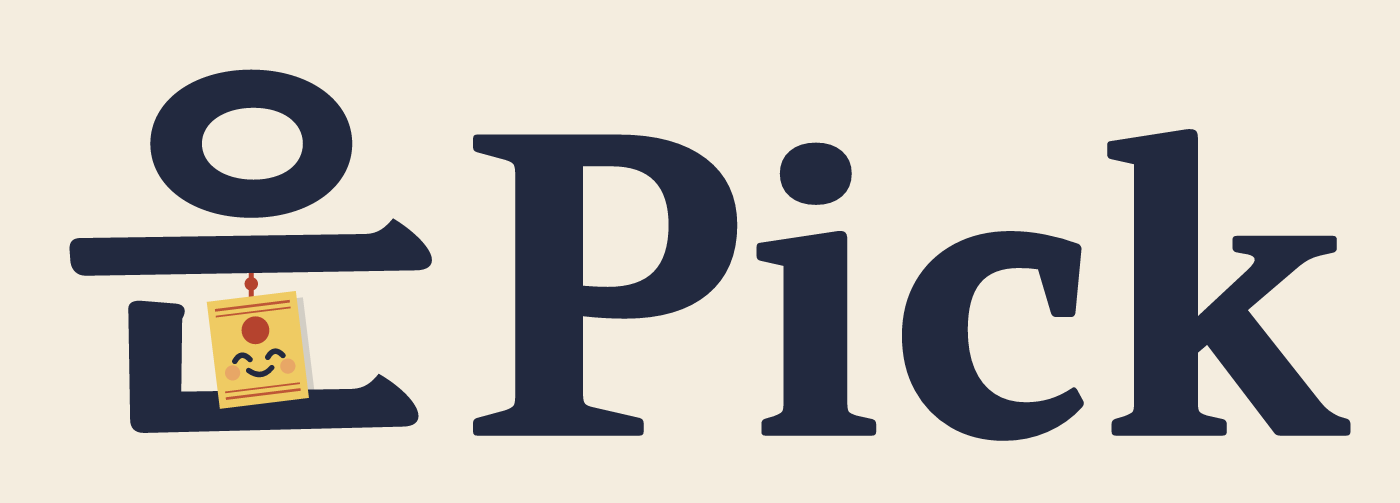
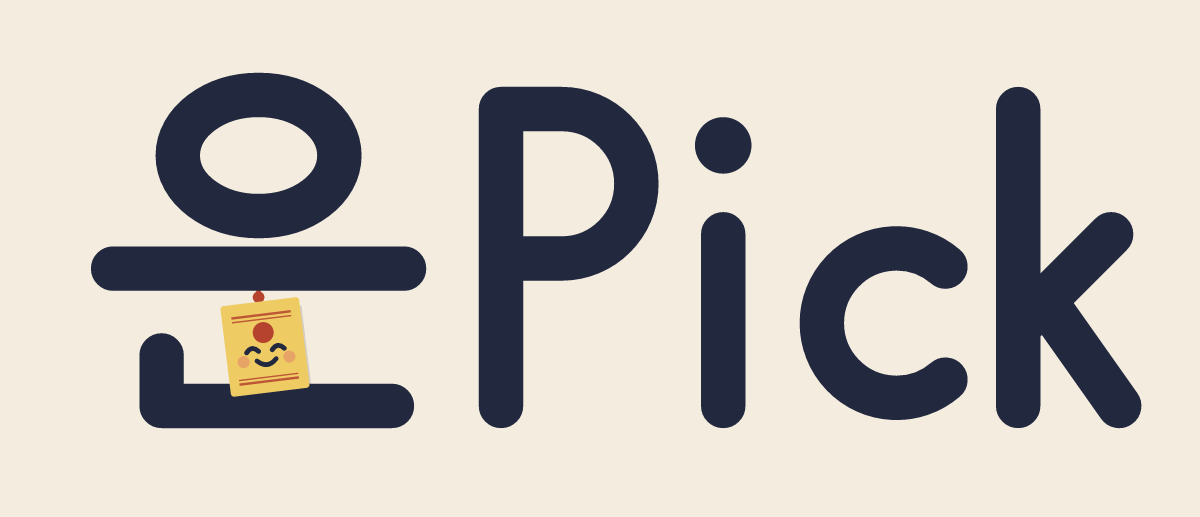
로고: 이전 단선 레터링 '운Pick'으로 되돌리고 ㅜ 자리 부적만 고품질로
- 618ec1e의 명조 '운'은 되돌리고 75de109 단선 레터링 복원
- ㅜ 기둥 부적만 개선: 붉은 매듭 끈 · 위아래 붉은 두 줄 · 도장 · 웃는 눈 · 볼 · 접힌 그림자
- 아이콘·스플래시·파비콘·워드마크 재생성, brandPaths.json 제거

Changed region(s): [[0.0308, 0.1193, 0.9867, 0.8946]]

diff --git a/scripts/render-icons.js b/scripts/render-icons.js
@@ -1,37 +1,43 @@
 /**
- * 운Pick 앱 아이콘 · 적응형 아이콘 · 스플래시 · 파비콘 · 워드마크 생성
+ * 운Pick 앱 아이콘 · 적응형 아이콘 · 스플래시 · 파비콘 생성 (assets/)
  * 사용: npm run icons
- * 로고 패스는 src/components/brandPaths.json 하나를 앱(BrandMark.tsx)과 함께 쓴다.
- * '운'은 직접 그린 명조 레터링, ㅜ 기둥 자리에는 매듭 끈에 매달린 부적(웃는 눈 · 붉은 도장 · 위아래 붉은 두 줄).
+ * 로고는 글꼴이 아니라 직접 그린 단선 레터링(획 두께 11, 둥근 끝). src/components/BrandMark.tsx 와 같은 패스.
+ * 시그니처: '운'의 ㅜ 기둥 자리에 붉은 매듭 끈으로 매달린 노란 부적(위아래 붉은 두 줄 · 도장 · 웃는 눈 · 볼 · 그림자).
  */
 const { Resvg } = require('@resvg/resvg-js');
 const fs = require('fs');
 const path = require('path');
-const B = require('../src/components/brandPaths.json');
-const FONTS = [path.resolve(__dirname, '../node_modules/@expo-google-fonts/hahmlet/700Bold/Hahmlet_700Bold.ttf')];
-const NAVY = '#22293F', CREAM = '#F4EDDF', RED = '#B5432E', MUTE = '#857C6E';
-const T = B.talisman;
-/** 운 + 부적 (0..100) */
+const NM = path.resolve(__dirname, '../node_modules/@expo-google-fonts/hahmlet');
+const FONTS = [NM + '/700Bold/Hahmlet_700Bold.ttf'];
+const NAVY = '#22293F', CREAM = '#F4EDDF', RED = '#B5432E', MUTE = '#857C6E', YEL = '#EDC861', YEL2 = '#D9AE3F';
+const st = c => `fill="none" stroke="${c}" stroke-width="11" stroke-linecap="round" stroke-linejoin="round"`;
+/** 운 (0..100) */
 const un = (c = NAVY) => `
-  <path d="${B.un.o}" fill="${c}" fill-rule="evenodd"/>
-  <path d="${B.un.nieun}" fill="${c}"/>
-  <path d="M50 53 V60.4" stroke="${RED}" stroke-width="1.1" stroke-linecap="round"/><circle cx="50" cy="57.2" r="1.5" fill="${RED}"/>
-  <path d="${T.shadow}" fill="${NAVY}" opacity="0.16"/>
-  <path d="${T.paper}" fill="#EFCB63"/>
-  <path d="${T.rules}" fill="${RED}" opacity="0.85"/>
-  <circle cx="${T.seal[0]}" cy="${T.seal[1]}" r="3.1" fill="${RED}"/>
-  <path d="${T.eyes}" fill="none" stroke="${NAVY}" stroke-width="1.25" stroke-linecap="round"/>
-  <path d="${T.smile}" fill="none" stroke="${NAVY}" stroke-width="1.2" stroke-linecap="round"/>
-  <circle cx="${T.chL[0]}" cy="${T.chL[1]}" r="1.7" fill="#E07C6A" opacity="0.45"/><circle cx="${T.chR[0]}" cy="${T.chR[1]}" r="1.7" fill="#E07C6A" opacity="0.45"/>
-  <path d="${B.un.bar}" fill="${c}"/>`;
-const word = c => `${un(c)}<path d="${B.pick}" fill="${c}"/>`; // x 9.5..294.5
+  <ellipse cx="50" cy="24.5" rx="20" ry="15" ${st(c)}/>
+  <path d="M26 74 V86.5 H83" ${st(c)}/>
+  <path d="M50 54 V61.6" stroke="${RED}" stroke-width="1.1" stroke-linecap="round"/><circle cx="50" cy="59.6" r="1.45" fill="${RED}"/>
+  <path d="M 42.73 63.82 L 60.6 61.63 L 63.17 82.57 L 45.3 84.76 Z" fill="${NAVY}" opacity="0.16"/>
+  <path d="M 41.37 62.58 L 59.24 60.38 L 61.8 81.23 L 43.93 83.42 Z" fill="#EFCB63" stroke="#EFCB63" stroke-width="1.6" stroke-linejoin="round"/>
+  <path d="M 43.23 64.57 L 57.92 62.76 L 57.99 63.36 L 43.3 65.16 Z M 43.37 65.76 L 58.06 63.95 L 58.11 64.3 L 43.42 66.11 Z M 45.13 80.05 L 59.82 78.25 L 59.86 78.59 L 45.17 80.4 Z M 45.24 80.94 L 59.93 79.14 L 60.0 79.74 L 45.31 81.54 Z" fill="${RED}" opacity="0.85"/>
+  <circle cx="51.15" cy="68.33" r="2.6" fill="${RED}"/>
+  <path d="M 47.03 73.37 Q 48.3 71.4 50.01 73.0 M 53.38 72.59 Q 54.65 70.62 56.36 72.22" fill="none" stroke="${NAVY}" stroke-width="1.2" stroke-linecap="round"/>
+  <path d="M 49.59 75.37 Q 52.27 77.46 54.36 74.79" fill="none" stroke="${NAVY}" stroke-width="1.15" stroke-linecap="round"/>
+  <circle cx="46.3" cy="75.67" r="1.5" fill="#E07C6A" opacity="0.5"/><circle cx="57.62" cy="74.29" r="1.5" fill="#E07C6A" opacity="0.5"/>
+  <path d="M14 52.5 H86" ${st(c)}/>`;
+/** Pick (운 뒤 x=110부터) */
+const pick = (c = NAVY) => `
+  <path d="M0 86.5 V13 H15 A18.5 18.5 0 0 1 15 50 H0" ${st(c)}/>
+  <path d="M55 44 V86.5" ${st(c)}/><circle cx="55" cy="22" r="7" fill="${c}"/>
+  <path d="M110 52 A18.5 18.5 0 1 0 110 80" ${st(c)}/>
+  <path d="M128 13 V86.5 M128 67 L151 44 M135 61 L153 86.5" ${st(c)}/>`;
+const word = c => `<g>${un(c)}</g><g transform="translate(110 0)">${pick(c)}</g>`; // 폭 0..269
 const svg = (body, vb = '0 0 100 100') => `<svg xmlns="http://www.w3.org/2000/svg" viewBox="${vb}">${body}</svg>`;
 const png = (s, out, w) => fs.writeFileSync(out, new Resvg(s, { fitTo: { mode: 'width', value: w }, font: { fontFiles: FONTS, loadSystemFonts: false, defaultFontFamily: 'Hahmlet' } }).render().asPng());
 const out = process.argv[2] || path.resolve(__dirname, '../assets');
-png(svg(`<rect width="100" height="100" fill="${CREAM}"/><g transform="translate(50 50) scale(0.68) translate(-50 -50)">${un()}</g>`), `${out}/icon.png`, 1024);
-png(svg(`<g transform="translate(50 50) scale(0.5) translate(-50 -50)">${un()}</g>`), `${out}/adaptive-icon.png`, 1024);
-png(svg(`<g transform="translate(200 170) scale(0.92) translate(-152 -50)">${word(NAVY)}</g>
+png(svg(`<rect width="100" height="100" fill="${CREAM}"/><g transform="translate(50 50) scale(0.6) translate(-50 -50)">${un()}</g>`), `${out}/icon.png`, 1024);
+png(svg(`<g transform="translate(50 50) scale(0.44) translate(-50 -50)">${un()}</g>`), `${out}/adaptive-icon.png`, 1024);
+png(svg(`<g transform="translate(200 175) scale(0.62) translate(-134.5 -50)">${word(NAVY)}</g>
   <text x="200" y="250" font-family="Hahmlet" font-weight="700" font-size="16" fill="${MUTE}" text-anchor="middle">오늘의 운, 하나만 Pick!</text>`, '0 0 400 400'), `${out}/splash-icon.png`, 1200);
-png(svg(`<rect width="100" height="100" rx="18" fill="${CREAM}"/><g transform="translate(50 50) scale(0.78) translate(-50 -50)">${un()}</g>`), `${out}/favicon.png`, 196);
-png(svg(`<rect x="-6" y="-6" width="312" height="112" fill="${CREAM}"/>${word(NAVY)}`, '-6 -6 312 112'), path.resolve(__dirname, '../docs/wordmark.png'), 1400);
+png(svg(`<rect width="100" height="100" rx="18" fill="${CREAM}"/><g transform="translate(50 50) scale(0.68) translate(-50 -50)">${un()}</g>`), `${out}/favicon.png`, 196);
+png(svg(`<rect x="-14" y="-14" width="297" height="128" fill="${CREAM}"/>${word(NAVY)}`, '-14 -14 297 128'), path.resolve(__dirname, '../docs/wordmark.png'), 1200);
 console.log('ok');

diff --git a/src/components/BrandMark.tsx b/src/components/BrandMark.tsx
@@ -1,54 +1,59 @@
 import React from 'react';
-import Svg, { Circle, Path } from 'react-native-svg';
+import Svg, { Circle, Ellipse, G, Path } from 'react-native-svg';
 import { colors } from '../theme/colors';
-import B from './brandPaths.json';
 
 /** 브랜드 — 화면 문구와 공유 문구가 모두 여기서 가져간다 (docs/BRAND.md) */
 export const BRAND = { name: '운Pick', ko: '운픽', slogan: '오늘의 운, 하나만 Pick!', store: '운Pick - 오늘의 운, 하나만 Pick' };
 
 /**
- * 운Pick 로고 — 패스는 brandPaths.json(아이콘 생성 스크립트와 공유).
- * '운'은 직접 그린 명조 레터링, ㅜ 기둥 자리에 매듭 끈에 매달린 부적(웃는 눈 · 붉은 도장 · 위아래 붉은 두 줄).
- * 회전·변형 속성 없이 좌표로만 그려 웹·앱·공유 이미지에서 같은 모양이다.
+ * 운Pick 로고는 글꼴이 아니라 직접 그린 단선 레터링이다(획 두께 11 · 둥근 끝 · scripts/render-icons.js 와 같은 패스).
+ * 시그니처: '운'의 ㅜ 기둥 자리에 붉은 매듭 끈으로 매달린 노란 부적(위아래 붉은 두 줄 · 도장 · 웃는 눈 · 볼 · 그림자) — 오늘 뽑은(Pick) 행운.
  */
-const NAVY = '#22293F', RED = colors.seal, T = B.talisman;
+const STROKE = { fill: 'none', strokeWidth: 11, strokeLinecap: 'round', strokeLinejoin: 'round' } as const;
 
 function Un({ fg }: { fg: string }) {
   return (
     <>
-      <Path d={B.un.o} fill={fg} fillRule="evenodd" />
-      <Path d={B.un.nieun} fill={fg} />
-      <Path d="M50 53 V60.4" stroke={RED} strokeWidth={1.1} strokeLinecap="round" />
-      <Circle cx={50} cy={57.2} r={1.5} fill={RED} />
-      <Path d={T.shadow} fill={NAVY} opacity={0.16} />
-      <Path d={T.paper} fill="#EFCB63" />
-      <Path d={T.rules} fill={RED} opacity={0.85} />
-      <Circle cx={T.seal[0]} cy={T.seal[1]} r={3.1} fill={RED} />
-      <Path d={T.eyes} fill="none" stroke={NAVY} strokeWidth={1.25} strokeLinecap="round" />
-      <Path d={T.smile} fill="none" stroke={NAVY} strokeWidth={1.2} strokeLinecap="round" />
-      <Circle cx={T.chL[0]} cy={T.chL[1]} r={1.7} fill="#E07C6A" opacity={0.45} />
-      <Circle cx={T.chR[0]} cy={T.chR[1]} r={1.7} fill="#E07C6A" opacity={0.45} />
-      <Path d={B.un.bar} fill={fg} />
+      <Ellipse cx={50} cy={24.5} rx={20} ry={15} stroke={fg} {...STROKE} />
+      <Path d="M26 74 V86.5 H83" stroke={fg} {...STROKE} />
+      {/* ㅜ 기둥 자리의 부적 — 붉은 매듭 끈 · 접힌 그림자 · 위아래 붉은 두 줄 · 도장 · 웃는 눈. 회전은 좌표로 미리 계산 */}
+      <Path d="M50 54 V61.6" stroke={colors.seal} strokeWidth={1.1} strokeLinecap="round" />
+      <Circle cx={50} cy={59.6} r={1.45} fill={colors.seal} />
+      <Path d="M 42.73 63.82 L 60.6 61.63 L 63.17 82.57 L 45.3 84.76 Z" fill="#22293F" opacity={0.16} />
+      <Path d="M 41.37 62.58 L 59.24 60.38 L 61.8 81.23 L 43.93 83.42 Z" fill="#EFCB63" stroke="#EFCB63" strokeWidth={1.6} strokeLinejoin="round" />
+      <Path d="M 43.23 64.57 L 57.92 62.76 L 57.99 63.36 L 43.3 65.16 Z M 43.37 65.76 L 58.06 63.95 L 58.11 64.3 L 43.42 66.11 Z M 45.13 80.05 L 59.82 78.25 L 59.86 78.59 L 45.17 80.4 Z M 45.24 80.94 L 59.93 79.14 L 60.0 79.74 L 45.31 81.54 Z" fill={colors.seal} opacity={0.85} />
+      <Circle cx={51.15} cy={68.33} r={2.6} fill={colors.seal} />
+      <Path d="M 47.03 73.37 Q 48.3 71.4 50.01 73.0 M 53.38 72.59 Q 54.65 70.62 56.36 72.22" fill="none" stroke="#22293F" strokeWidth={1.2} strokeLinecap="round" />
+      <Path d="M 49.59 75.37 Q 52.27 77.46 54.36 74.79" fill="none" stroke="#22293F" strokeWidth={1.15} strokeLinecap="round" />
+      <Circle cx={46.3} cy={75.67} r={1.5} fill="#E07C6A" opacity={0.5} />
+      <Circle cx={57.62} cy={74.29} r={1.5} fill="#E07C6A" opacity={0.5} />
+      <Path d="M14 52.5 H86" stroke={fg} {...STROKE} />
     </>
   );
 }
 
-/** 마크: '운' 레터링 + 부적 (앱 아이콘과 같음). fg: 글자 색 — 밝은 바탕엔 먹남색, 어두운 바탕엔 한지색 */
+/** 마크: '운' 레터링 (앱 아이콘과 같음). fg: 획 색 — 밝은 바탕엔 먹남색, 어두운 바탕엔 한지색 */
 export function LogoMark({ size = 24, fg = colors.purple }: { size?: number; fg?: string }) {
   return (
-    <Svg width={size} height={size} viewBox="5 5 90 90" accessibilityLabel={BRAND.name}>
+    <Svg width={size} height={size} viewBox="2 2 96 96" accessibilityLabel={BRAND.name}>
       <Un fg={fg} />
     </Svg>
   );
 }
 
-/** 워드마크: 운Pick 하나 (첫 화면 · 헤더 · 공유 카드). size = 높이 */
+/** 워드마크: 운Pick 레터링 하나 (첫 화면 · 헤더 · 공유 카드). size = 높이 */
 export default function BrandMark({ light = false, size = 22 }: { light?: boolean; size?: number }) {
   const fg = light ? '#F4EDDF' : colors.purple;
   return (
-    <Svg width={(size * 292) / 88} height={size} viewBox="6 5 292 88" accessibilityLabel={BRAND.name}>
+    <Svg width={(size * 281) / 92} height={size} viewBox="-6 2 281 92" accessibilityLabel={BRAND.name}>
       <Un fg={fg} />
-      <Path d={B.pick} fill={fg} />
+      <G x={110}>
+        <Path d="M0 86.5 V13 H15 A18.5 18.5 0 0 1 15 50 H0" stroke={fg} {...STROKE} />
+        <Path d="M55 44 V86.5" stroke={fg} {...STROKE} />
+        <Circle cx={55} cy={22} r={7} fill={fg} />
+        <Path d="M110 52 A18.5 18.5 0 1 0 110 80" stroke={fg} {...STROKE} />
+        <Path d="M128 13 V86.5 M128 67 L151 44 M135 61 L153 86.5" stroke={fg} {...STROKE} />
+      </G>
     </Svg>
   );
 }

diff --git a/docs/BRAND.md b/docs/BRAND.md
@@ -22,19 +22,18 @@
 
 'PICK'은 고르는 동작을 강조할 때 대문자로, 브랜드명은 `운Pick`으로 써요. 카피에도 이모지는 쓰지 않아요.
 
-## 로고 (`docs/wordmark.png`)
+## 로고 — 직접 그린 레터링 + 부적 (`docs/wordmark.png`)
 | 요소 | 설명 |
 |---|---|
-| '운' | 직접 그린 **명조 레터링** — ㅇ은 좌우가 두껍고 위아래가 얇은 대비, ㅡ은 붓 들머리와 끝 맺음(살짝 올라가는 갈고리), ㄴ은 굵은 세로와 얇은 가로·끝 맺음 |
-| 'Pick' | Hahmlet Bold 윤곽선을 고정 패스로 변환해 89.5% 크기·같은 기준선으로 '운'과 굵기를 맞춤(폰트 파일에 의존하지 않음) |
-| 시그니처 **부적** | ㅜ 기둥 자리에 **붉은 매듭 끈**으로 매달린 노란 부적(-7°): 위아래 붉은 두 줄 · 붉은 도장 · 웃는 눈(∩∩)과 입 · 볼 · 접힌 그림자 |
-| 앱 아이콘 | '운'+부적을 한지색 바탕 위에 (`assets/icon.png`) |
-| 사용 규칙 | 한 화면에 로고는 하나만. 첫 화면·헤더·공유 카드는 워드마크, 아이콘·작은 자리는 '운' 마크 |
-| 코드 | 패스 원본 `src/components/brandPaths.json` → 앱 `BrandMark.tsx`(BrandMark·LogoMark)와 `npm run icons`가 함께 사용 |
+| 워드마크 **운Pick** | 글꼴이 아니라 직접 그린 단선 레터링. 획 두께 11 · 둥근 끝 · '운'과 'Pick'의 높이·두께를 하나로 맞춤 |
+| 시그니처 **부적** | '운'의 ㅜ 기둥 자리에 **붉은 매듭 끈**으로 매달린 노란 부적(-7°) — 위아래 붉은 두 줄 · 붉은 도장 · 웃는 눈(∩∩)과 입 · 볼 · 접힌 그림자 |
+| 앱 아이콘 | 워드마크의 '운'+부적을 한지색 바탕 위에 (`assets/icon.png`) |
+| 사용 규칙 | 한 화면에 로고는 하나만. 첫 화면·헤더·공유 카드는 워드마크, 앱 아이콘·로딩·작은 자리는 '운' 마크 |
+| 코드 | `src/components/BrandMark.tsx` — `BrandMark`(워드마크) · `LogoMark`('운'). `npm run icons`가 같은 패스로 아이콘을 만들어요 |
 
-- 부적 색: 종이 `#EFCB63`, 볼 `#E07C6A`(45%), 끈·도장·두 줄 낙관 주홍. 표정(윙크·놀람 등)이나 도장 글자는 이 부분만 바꿔 변형할 수 있어요.
-- 회전·변형 속성 없이 좌표만으로 그려 앱·웹·공유 이미지에서 같은 모양이에요.
-- 쓰지 않는 것: 초승달·별·반짝이(✦)·보라 그라데이션·네온, 기성 글꼴 그대로의 로고.
+- 부적 색: 종이 `#EFCB63`, 볼 `#E07C6A`(50%), 끈·도장·두 줄은 낙관 주홍. 표정이나 도장만 바꿔 변형할 수 있어요.
+- 회전·변형 속성 없이 좌표로만 그려 앱·웹·공유 이미지에서 같은 모양이에요.
+- 쓰지 않는 것: 초승달·별·반짝이(✦)·보라 그라데이션·네온.
 
 ## 색
 | 이름 | 값 | 쓰임 |
